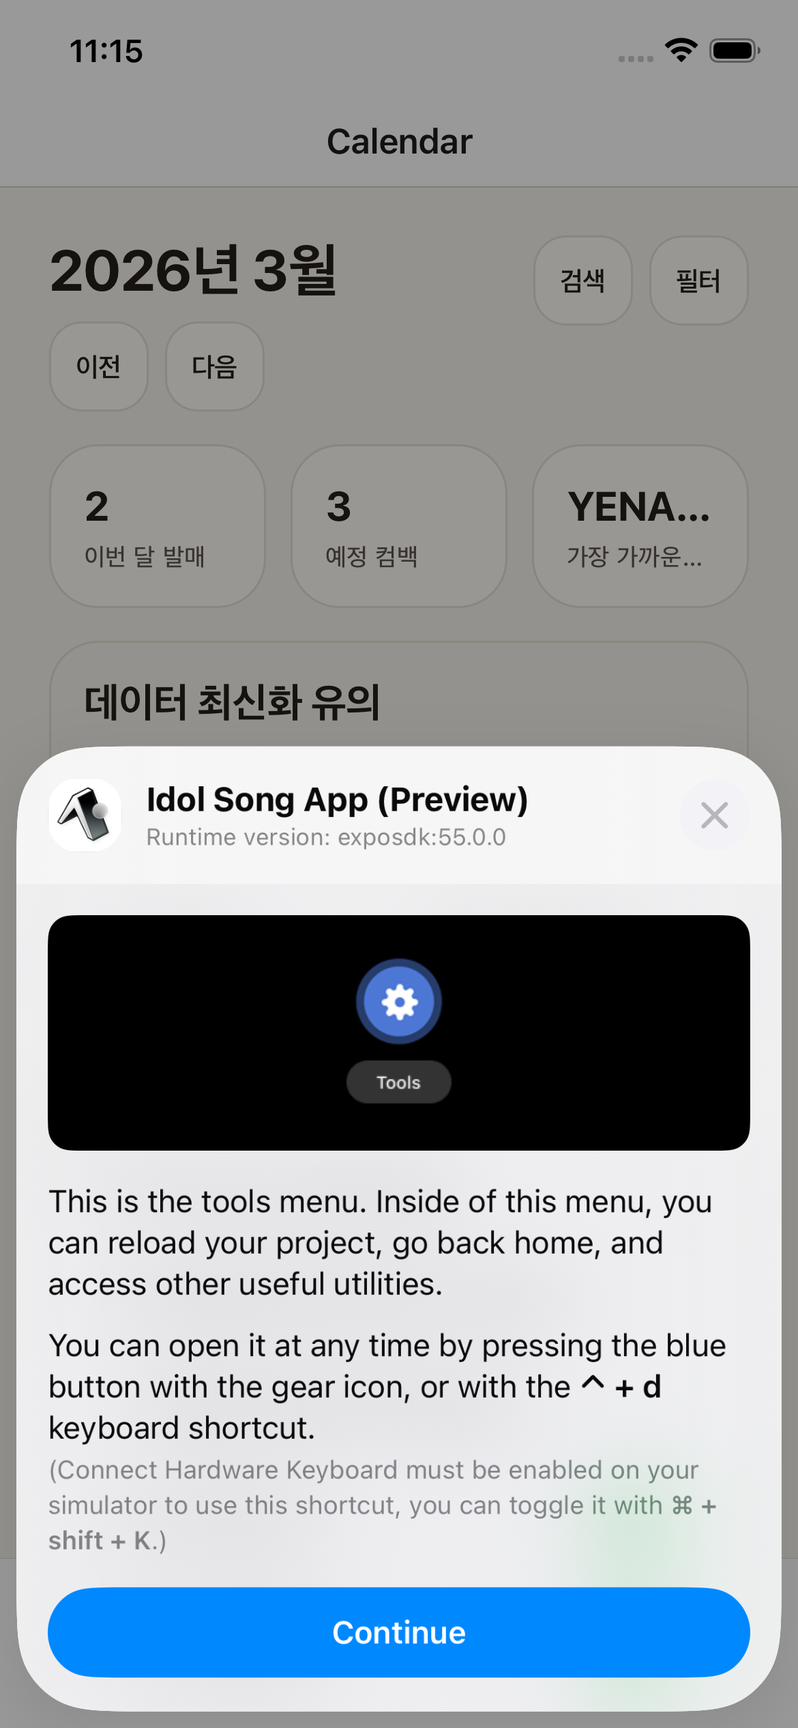
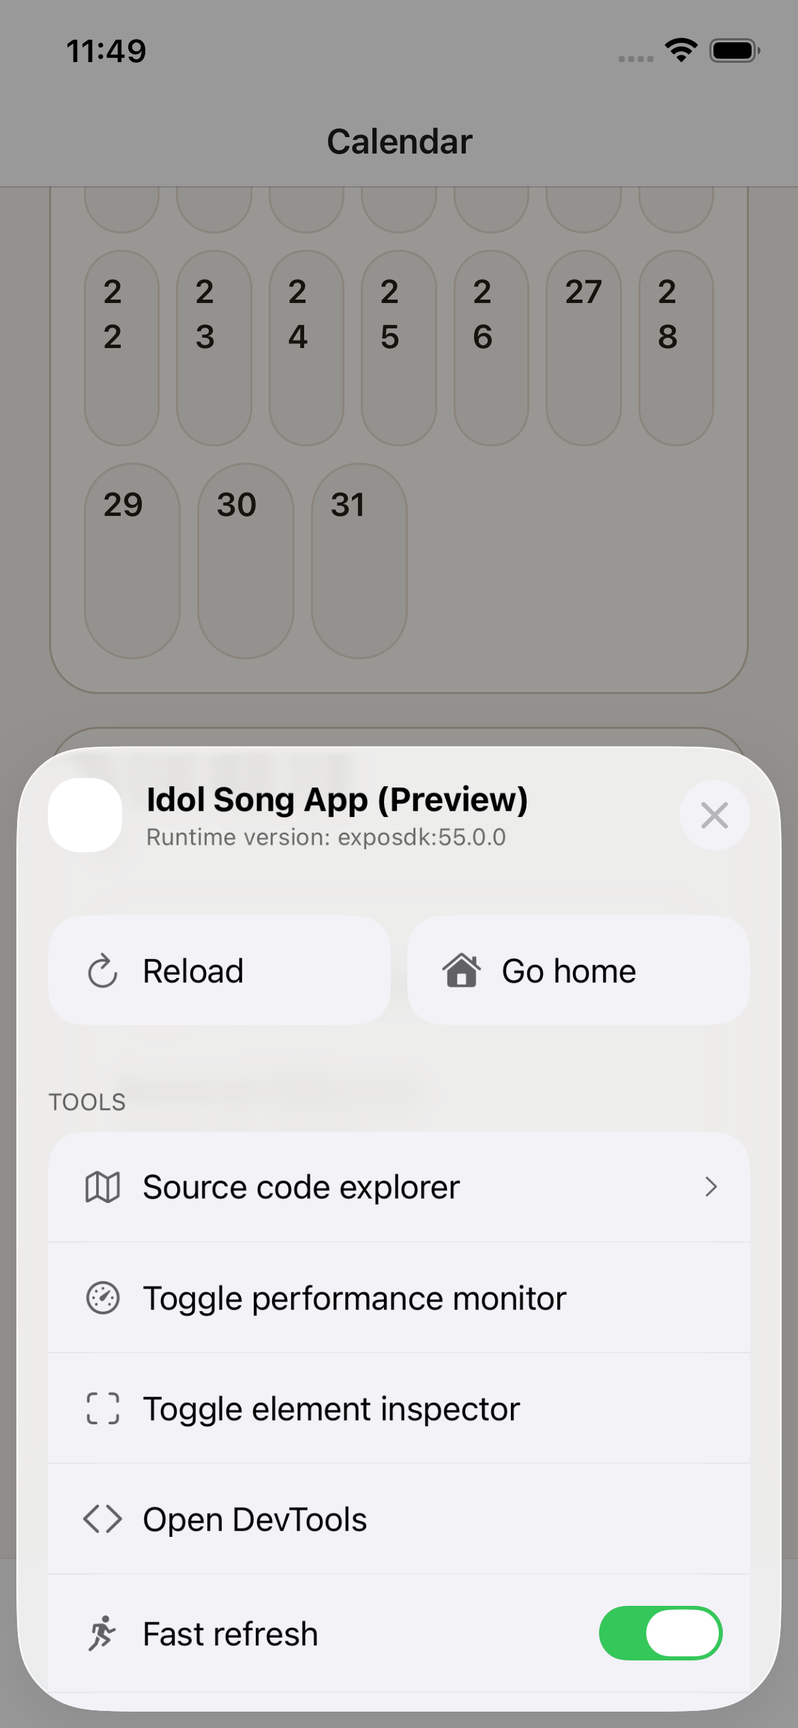
Add RN preview runtime stabilization evidence (#492)

diff --git a/mobile/app.config.ts b/mobile/app.config.ts
@@ -8,6 +8,8 @@ type ProfileConfig = {
   name: string;
   slug: string;
   scheme: string;
+  iosBundleIdentifier: string;
+  androidPackage: string;
   dataSourceMode: DataSourceMode;
   loggingLevel: LoggingLevel;
   featureGates: {
@@ -52,6 +54,8 @@ const PROFILE_CONFIG: Record<MobileProfile, ProfileConfig> = {
     name: 'Idol Song App (Dev)',
     slug: 'idol-song-app-mobile-dev',
     scheme: 'idolsongapp-dev',
+    iosBundleIdentifier: 'com.anonymous.idolsongappmobile.dev',
+    androidPackage: 'com.anonymous.idolsongappmobile.dev',
     dataSourceMode: 'bundled-static',
     loggingLevel: 'verbose',
     featureGates: {
@@ -66,6 +70,8 @@ const PROFILE_CONFIG: Record<MobileProfile, ProfileConfig> = {
     name: 'Idol Song App (Preview)',
     slug: 'idol-song-app-mobile-preview',
     scheme: 'idolsongapp-preview',
+    iosBundleIdentifier: 'com.anonymous.idolsongappmobile.preview',
+    androidPackage: 'com.anonymous.idolsongappmobile.preview',
     dataSourceMode: 'backend-api',
     loggingLevel: 'debug',
     featureGates: {
@@ -80,6 +86,8 @@ const PROFILE_CONFIG: Record<MobileProfile, ProfileConfig> = {
     name: 'Idol Song App',
     slug: 'idol-song-app-mobile',
     scheme: 'idolsongapp',
+    iosBundleIdentifier: 'com.anonymous.idolsongappmobile',
+    androidPackage: 'com.anonymous.idolsongappmobile',
     dataSourceMode: 'backend-api',
     loggingLevel: 'error',
     featureGates: {
@@ -215,9 +223,11 @@ export default ({ config }: ConfigContext): ExpoConfig => {
     },
     ios: {
       supportsTablet: true,
+      bundleIdentifier: profileConfig.iosBundleIdentifier,
     },
     android: {
       predictiveBackGestureEnabled: false,
+      package: profileConfig.androidPackage,
     },
     web: {
       bundler: 'metro',

diff --git a/docs/specs/mobile/rn-runtime-device-qa-2026-03-10.md b/docs/specs/mobile/rn-runtime-device-qa-2026-03-10.md
@@ -1,43 +1,59 @@
 # RN Runtime Device QA 2026-03-10
 
 ## Scope
-- Issue: [#486](https://github.com/iAmSomething/idol-song-app/issues/486)
-- Goal: preview sign-off 직전 실제 runtime QA matrix와 accessibility/platform walkthrough 재실행
+- Issue: [#488](https://github.com/iAmSomething/idol-song-app/issues/488)
+- Goal: preview sign-off 직전 runtime target을 안정화하고 실제 runtime QA matrix와 accessibility/platform walkthrough를 다시 실행
 - Decision: `BLOCKED`
-- Next blocker follow-up: [#488](https://github.com/iAmSomething/idol-song-app/issues/488)
+- Next blocker follow-up: [#491](https://github.com/iAmSomething/idol-song-app/issues/491)
 
 ## Summary
-이번 패스에서는 iOS shipping-target simulator에서 preview runtime을 실제로 띄우는 데까지는 성공했다. 다만 Expo Go first-run tools modal이 앱 위를 덮고 있고, Expo Go 안에서는 앱 custom scheme deep-link도 등록되지 않아 search / team detail / release detail을 직접 열 수 없었다. Android는 emulator package, AVD, attached device가 모두 없어 runtime matrix를 시작할 수 없었다.
+이번 패스에서는 preview QA runtime 자체는 안정화됐다. iOS는 `expo-dev-client`가 포함된 standalone preview build로 `Calendar`, `Search`, `Radar`, `YENA team detail`, `LOVE CATCHER release detail`까지 실제로 열 수 있었고, Android는 command-line tools, emulator, AVD를 provision한 뒤 preview build를 emulator에 설치해 `Calendar -> YENA team detail -> hardware back` 흐름을 검증했다. 다만 sign-off는 여전히 `BLOCKED`다. iOS largest-text(`accessibility-extra-extra-extra-large`)에서 Search 화면 레이아웃이 심하게 무너졌고, Android 외부 handoff return은 마지막 상세 컨텍스트가 아니라 `Calendar` 루트로 복귀했다. VoiceOver / TalkBack 수동 walkthrough도 아직 clean pass로 남기지 못했다.
 
 ## Runtime Matrix
 | Target | Result | Evidence | Notes |
 | --- | --- | --- | --- |
-| iOS simulator launch | PASS | `docs/assets/distribution/rn_ios_preview_runtime_calendar_2026-03-10.png` | `Calendar` surface가 실제 simulator에 로드됨 |
-| iOS in-app flow walkthrough | BLOCKED | `docs/assets/distribution/rn_ios_preview_runtime_blocker_2026-03-10.png` | Expo Go tools modal이 first-run 상태로 남아 manual taps를 가로막음 |
-| iOS deep-link jump | BLOCKED | `xcrun simctl openurl booted 'idolsongapp-preview://...'` | Expo Go runtime에서는 app custom scheme가 직접 등록되지 않아 `OSStatus -10814` |
-| Android emulator runtime | BLOCKED | `find ~/Library/Android/sdk -type f -name emulator` | emulator binary 없음 |
-| Android physical runtime | BLOCKED | `adb devices -l` | attached device 없음 |
-| VoiceOver / TalkBack walkthrough | BLOCKED | no runnable end-to-end runtime target | screen-reader walkthrough 미실행 |
-| Dynamic Type largest-text walkthrough | BLOCKED | no runnable end-to-end runtime target | largest-text runtime walkthrough 미실행 |
+| iOS simulator launch | PASS | `docs/assets/distribution/rn_ios_preview_runtime_calendar_no_menu_2026-03-10.png` | standalone preview dev client에서 `Calendar` surface 로드 확인 |
+| iOS in-app flow walkthrough | PASS | `docs/assets/distribution/rn_ios_preview_runtime_search_warm_2026-03-10.png`, `docs/assets/distribution/rn_ios_preview_runtime_radar_2026-03-10.png` | `Search`, `Radar` warm route 진입 확인 |
+| iOS deep-link jump | PASS | `docs/assets/distribution/rn_ios_preview_runtime_artist_yena_2026-03-10.png`, `docs/assets/distribution/rn_ios_preview_runtime_release_yena_2026-03-10.png` | `artists/yena`, `releases/yena--love-catcher--2026-03-11--album` warm deep link 성공 |
+| Android emulator runtime | PASS | `docs/assets/distribution/rn_android_preview_runtime_calendar_no_menu_2026-03-10.png` | preview build install, dev client load, `Calendar` surface 확인 |
+| Android hardware back | PASS | `docs/assets/distribution/rn_android_preview_runtime_after_back_2026-03-10.png` | `YENA` team detail에서 hardware back 후 `Calendar` 복귀 확인 |
+| Android external handoff return / state restore | BLOCKED | `docs/assets/distribution/rn_android_preview_runtime_handoff_return_2026-03-10.png` | 브라우저 handoff 후 앱을 다시 foreground로 올리면 마지막 detail context가 아니라 `Calendar` 루트로 돌아옴 |
+| VoiceOver / TalkBack walkthrough | BLOCKED | runnable runtime target exists, but screen-reader pass not recorded | 실제 수동 스크린리더 walkthrough 미완료 |
+| Dynamic Type / font scale walkthrough | BLOCKED | `docs/assets/distribution/rn_ios_preview_runtime_search_largest_text_2026-03-10.png`, `docs/assets/distribution/rn_android_preview_runtime_largest_text_2026-03-10.png` | iOS largest-text는 blocking overflow 발생, Android font scale은 snapshot만 확보 |
 
 ## Executed Checks
-1. `CI=1 EXPO_PUBLIC_API_BASE_URL=https://api.idol-song-app.example.com APP_ENV=preview npx expo start --host lan --ios`
-2. `lsof -i tcp:8081 -n -P`
-3. `xcrun simctl io booted screenshot ...`
-4. `xcrun simctl openurl booted 'idolsongapp-preview://search?...'`
-5. `xcrun simctl openurl booted 'idolsongapp-preview://artists/yena'`
-6. `xcrun simctl openurl booted 'idolsongapp-preview://releases/yena--love-catcher--2026-03-11--album'`
-7. `find ~/Library/Android/sdk -type f -name emulator`
-8. `ls -la ~/.android/avd`
-9. `adb devices -l`
+1. `cd mobile && npx expo install expo-dev-client`
+2. `cd mobile && EXPO_PUBLIC_API_BASE_URL=https://api.idol-song-app.example.com npm run qa:preview:ios:prebuild`
+3. `cd mobile && EXPO_PUBLIC_API_BASE_URL=https://api.idol-song-app.example.com npm run qa:preview:ios:sim`
+4. `xcrun simctl openurl booted 'idolsongapp-preview://artists/yena'`
+5. `xcrun simctl openurl booted 'idolsongapp-preview://releases/yena--love-catcher--2026-03-11--album'`
+6. `xcrun simctl openurl booted 'idolsongapp-preview://search?q=최예나'`
+7. `xcrun simctl openurl booted 'idolsongapp-preview://radar'`
+8. `xcrun simctl ui booted content_size accessibility-extra-extra-extra-large`
+9. `brew install --cask android-commandlinetools`
+10. `yes | "$HOME/Library/Android/sdk/cmdline-tools/latest/bin/sdkmanager" --sdk_root="$HOME/Library/Android/sdk" "emulator" "platforms;android-35" "system-images;android-35;google_apis;arm64-v8a"`
+11. `"$HOME/Library/Android/sdk/cmdline-tools/latest/bin/avdmanager" create avd --force --name idol-song-app-preview-api35 --package "system-images;android-35;google_apis;arm64-v8a" --tag google_apis --abi arm64-v8a --device pixel_8`
+12. `"$HOME/Library/Android/sdk/emulator/emulator" -list-avds`
+13. `"$HOME/Library/Android/sdk/emulator/emulator" -avd idol-song-app-preview-api35 -netdelay none -netspeed full -no-snapshot-save -no-boot-anim -no-audio`
+14. `cd mobile && EXPO_PUBLIC_API_BASE_URL=https://api.idol-song-app.example.com npm run qa:preview:android:prebuild`
+15. `cd mobile && EXPO_PUBLIC_API_BASE_URL=https://api.idol-song-app.example.com npm run qa:preview:android:emu`
+16. `adb shell input tap ...`
+17. `adb shell input keyevent 4`
+18. `adb shell am start -W -a android.intent.action.VIEW -d 'https://example.com'`
+19. `adb shell am start -W -n com.anonymous.idolsongappmobile.preview/.MainActivity`
+20. `adb shell settings put system font_scale 1.3`
+21. `adb exec-out screencap -p > ...`
 
 ## Findings
-1. iOS simulator 기준으로 preview runtime은 실제 앱 화면까지 올라온다. 이건 `#454` 시점의 “simulator boot only”보다 한 단계 진전이다.
-2. Expo Go first-run tools modal 때문에 QA-UC-01 ~ QA-UC-05를 앱 안에서 연속 수행할 수 없었다.
-3. Expo Go runtime에서는 앱 custom scheme deep-link를 직접 열 수 없어 route-level 우회 진입도 막혔다.
-4. Android는 QA를 시작할 수 있는 runtime target 자체가 없다.
+1. `expo-dev-client`와 native identifier를 넣은 뒤에는 iOS preview runtime이 Expo Go blocker 없이 실제 app shell까지 올라온다.
+2. iOS에서는 warm deep link로 `Search`, `Radar`, `Team Detail`, `Release Detail`을 모두 직접 열 수 있었다.
+3. Android는 emulator package, AVD, attached device 부재 상태에서 벗어나 실제 preview build install/open까지 성공했다.
+4. Android hardware back은 정상이다.
+5. 남은 blocker는 runtime availability가 아니라 accessibility/state behavior다.
+6. iOS largest-text에서 Search 화면 텍스트가 심하게 겹치고 잘려서 sign-off를 막는다.
+7. Android external handoff return은 마지막 screen context를 보존하지 못하고 `Calendar` 루트로 돌아간다.
 
 ## Decision
-- `#486`의 목적이었던 runtime matrix 실행 시도와 blocker 분류는 완료했다.
+- `#488`의 목적이었던 preview runtime 안정화와 rerun은 완료했다.
 - preview sign-off는 여전히 `NO-GO`다.
-- 다음 액션은 [#488](https://github.com/iAmSomething/idol-song-app/issues/488)에서 runtime QA 환경 자체를 안정화한 뒤 남은 matrix를 다시 도는 것이다.
+- 다음 액션은 [#491](https://github.com/iAmSomething/idol-song-app/issues/491)에서 accessibility/state restore blocker를 해결한 뒤 sign-off를 다시 판정하는 것이다.

diff --git a/docs/specs/mobile/rn-release-readiness-gate-2026-03-10.md b/docs/specs/mobile/rn-release-readiness-gate-2026-03-10.md
@@ -4,11 +4,11 @@
 - Preview sign-off: `BLOCKED`
 - Decision date: `2026-03-10`
 - Runtime QA artifact: `rn-runtime-device-qa-2026-03-10.md`
-- Blocking follow-up: [#488](https://github.com/iAmSomething/idol-song-app/issues/488)
-- Local evidence: `docs/assets/distribution/rn_release_readiness_local_2026-03-10.md`
+- Blocking follow-up: [#491](https://github.com/iAmSomething/idol-song-app/issues/491)
+- Local evidence: `docs/assets/distribution/rn_preview_runtime_stabilization_local_2026-03-10.md`
 
 ## Summary
-자동 검증과 코드/문서 기반 구조 검증은 통과했다. 다만 preview sign-off 차단 조건인 실제 iOS/Android runtime QA matrix와 VoiceOver/TalkBack, largest text 재검증이 이 환경에서 완료되지 않았다. 따라서 이번 판정은 `GO`가 아니라 `BLOCKED`다.
+자동 검증과 코드/문서 기반 구조 검증은 통과했고, `#488`에서 iOS standalone dev client와 Android emulator 기반 preview runtime도 실제로 다시 세웠다. 그래서 이전처럼 “runtime target이 없다”는 상태는 더 이상 blocker가 아니다. 다만 rerun 결과 iOS largest-text overflow와 Android external handoff/state-restore reset이 새 blocker로 드러났고, VoiceOver / TalkBack manual pass도 아직 clean하게 남지 않았다. 따라서 이번 판정은 여전히 `GO`가 아니라 `BLOCKED`다.
 
 ## Gate Result
 | Gate | Result | Evidence | Notes |
@@ -16,9 +16,9 @@
 | Product | PASS | `rn-screen-structure-validation-2026-03-10.md`, `rn-journey-walkthrough-2026-03-10.md` | Calendar, Search, Radar, Team Detail, Release Detail 핵심 플로우 구조와 journey 검증 통과 |
 | Data | PASS | `npm test -- --runInBand`, `specParity.test.ts`, `searchTab.test.tsx` | alias search, release detail, month-only separation, backend/bundled fallback contract 자동 검증 통과 |
 | UX | PASS | `rn-screen-structure-validation-2026-03-10.md`, `qa-acceptance-spec.md` 기준 regression tests | action hierarchy, empty/error/partial state, sheet/list/grid 구조 유지 |
-| Accessibility | BLOCKED | `accessibility-audit-2026-03-09.md` | 코드 레벨 blocker는 해소됐지만 실제 iOS/Android VoiceOver/TalkBack, largest text walkthrough 미실행 |
-| Platform | BLOCKED | iOS simulator boot evidence, Android runtime availability check | iOS handoff/gesture, Android hardware back/handoff/state restore를 실제 runtime에서 재검증하지 못함 |
-| Test | BLOCKED | `lint`, `typecheck`, `test`, iOS/Android export PASS | 자동 검증은 통과했지만 QA-UC-01~05 manual checklist가 완료되지 않음 |
+| Accessibility | BLOCKED | `rn-runtime-device-qa-2026-03-10.md` | iOS largest-text overflow 발생, VoiceOver / TalkBack clean pass 미완료 |
+| Platform | BLOCKED | `rn-runtime-device-qa-2026-03-10.md` | Android external handoff return이 current detail context를 유지하지 못함 |
+| Test | PASS | `lint`, `typecheck`, `test`, iOS/Android export PASS, runtime rerun artifact | 자동 검증과 runtime rerun 자체는 완료 |
 | Ops | PASS | `config:preview`, export smoke, handoff/analytics guards existing tests | preview runtime config는 required env를 주면 정상 생성됨 |
 
 ## Automated Checks
@@ -34,31 +34,32 @@
 ## Device And Runtime Matrix
 | Runtime target | Result | Notes |
 | --- | --- | --- |
-| iOS Simulator `iPhone 16 Pro` / iOS `18.5` | PARTIAL | simulator boot completed with `xcrun simctl bootstatus`; app-level manual walkthrough는 이 환경에서 미실행 |
-| iOS physical device | BLOCKED | `xcrun xcdevice list` 기준 attached iPhone/iPad evidence 없음 |
-| Android emulator | BLOCKED | `emulator -list-avds` command unavailable |
+| iOS Simulator `iPhone 16e` / iOS `26.2` | PASS | standalone preview dev client에서 `Calendar`, `Search`, `Radar`, `Team Detail`, `Release Detail` rerun 완료 |
+| iOS physical device | PARTIAL | 필수 blocker는 아니지만 attached iPhone/iPad evidence는 여전히 없음 |
+| Android emulator | PASS | `idol-song-app-preview-api35` AVD provision + preview build install/open 완료 |
 | Android physical device | BLOCKED | `adb devices -l` returned no attached devices |
 
 ## Blockers
-1. `qa-acceptance-spec.md`의 QA-UC-01 ~ QA-UC-05 manual walkthrough 결과가 실제 iOS/Android runtime 기준으로 남아 있지 않다.
-2. `accessibility-platform-spec.md` 기준 VoiceOver / TalkBack / largest text 재검증 결과가 없다.
-3. Android runtime에서 hardware back, external handoff return, state restoration을 실제로 확인하지 못했다.
+1. iOS `accessibility-extra-extra-extra-large`에서 Search 화면이 sign-off 불가 수준으로 깨진다.
+2. Android external handoff return이 마지막 상세 컨텍스트를 유지하지 못하고 `Calendar` 루트로 되돌린다.
+3. VoiceOver / TalkBack manual walkthrough 결과가 아직 clean pass로 기록되지 않았다.
 
 ## Non-Blockers
 1. preview runtime config는 required env(`EXPO_PUBLIC_API_BASE_URL`)를 주면 정상 생성된다.
-2. 구조/여정/접근성 코드 레벨 audit에서 현재 구현 blocker는 없다.
-3. JS bundle export는 iOS/Android 모두 성공했다.
-4. automated regression suite는 현재 기준 clean이다.
+2. iOS standalone dev client와 Android emulator target은 둘 다 실제로 provision 가능하다.
+3. 구조/여정/접근성 코드 레벨 audit에서 현재 구현 blocker는 없다.
+4. JS bundle export는 iOS/Android 모두 성공했다.
+5. automated regression suite는 현재 기준 clean이다.
 
 ## Sign-off Rule
 - 아래 세 항목이 모두 채워지기 전까지 preview sign-off는 `NO-GO`다.
-  1. iOS runtime manual matrix 결과
-  2. Android runtime manual matrix 결과
-  3. VoiceOver / TalkBack / largest text walkthrough 결과
+  1. largest-text overflow fix 확인
+  2. Android handoff/state-restore fix 확인
+  3. VoiceOver / TalkBack walkthrough 결과
 
 ## Runtime QA Update
-- [#486](https://github.com/iAmSomething/idol-song-app/issues/486)에서 runtime QA 실행을 시도했고, iOS shipping-target simulator launch 자체는 확인했다.
+- [#488](https://github.com/iAmSomething/idol-song-app/issues/488)에서 runtime QA 환경을 안정화했고, iOS standalone dev client와 Android emulator rerun을 완료했다.
 - 세부 결과와 증적은 `rn-runtime-device-qa-2026-03-10.md`에 기록했다.
 
 ## Next Step
-- [#488](https://github.com/iAmSomething/idol-song-app/issues/488)에서 runtime QA 환경 blocker를 해소한 뒤, 이 문서의 blocker를 `pass` 또는 `non-blocking residual risk`로 갱신한다.
+- [#491](https://github.com/iAmSomething/idol-song-app/issues/491)에서 accessibility/state-restore blocker를 해소한 뒤, 이 문서의 blocker를 `pass` 또는 `non-blocking residual risk`로 갱신한다.

diff --git a/docs/assets/distribution/rn_preview_runtime_stabilization_local_2026-03-10.md b/docs/assets/distribution/rn_preview_runtime_stabilization_local_2026-03-10.md
@@ -1,0 +1,124 @@
+# RN Preview Runtime Stabilization Local Evidence 2026-03-10
+
+## Scope
+- Issue: [#488](https://github.com/iAmSomething/idol-song-app/issues/488)
+- Branch: `codex/488-stable-preview-qa-runtime`
+- Outcome: preview QA runtime stabilized on iOS standalone dev client and Android emulator, release sign-off still `BLOCKED`
+- Remaining blocker: [#491](https://github.com/iAmSomething/idol-song-app/issues/491)
+
+## iOS Preview Runtime
+
+### Provisioning
+```bash
+cd /Users/gimtaehun/Desktop/idol-song-app/mobile
+npx expo install expo-dev-client
+EXPO_PUBLIC_API_BASE_URL=https://api.idol-song-app.example.com npm run qa:preview:ios:prebuild
+EXPO_PUBLIC_API_BASE_URL=https://api.idol-song-app.example.com npm run qa:preview:ios:sim
+```
+
+Observed result:
+- preview build installed on `iPhone 16e`
+- Expo dev client opened `exp+idol-song-app-mobile-preview://expo-development-client/?url=http%3A%2F%2F192.168.55.173%3A8082`
+- Metro bundled `node_modules/expo-router/entry.js`
+
+### Runtime evidence
+- `docs/assets/distribution/rn_ios_preview_runtime_loaded_2026-03-10.png`
+- `docs/assets/distribution/rn_ios_preview_runtime_calendar_no_menu_2026-03-10.png`
+- `docs/assets/distribution/rn_ios_preview_runtime_search_warm_2026-03-10.png`
+- `docs/assets/distribution/rn_ios_preview_runtime_radar_2026-03-10.png`
+- `docs/assets/distribution/rn_ios_preview_runtime_artist_yena_2026-03-10.png`
+- `docs/assets/distribution/rn_ios_preview_runtime_release_yena_2026-03-10.png`
+
+Observed result:
+- `Calendar`, `Search`, `Radar`, `YENA team detail`, `LOVE CATCHER release detail` warm-route entry all succeeded
+- Expo Go blocker is no longer relevant for preview QA
+
+### Largest-text rerun
+```bash
+xcrun simctl ui booted content_size accessibility-extra-extra-extra-large
+xcrun simctl openurl booted 'idolsongapp-preview://search?q=%EC%B5%9C%EC%98%88%EB%82%98'
+```
+
+Evidence:
+- `docs/assets/distribution/rn_ios_preview_runtime_search_largest_text_2026-03-10.png`
+
+Result: `BLOCKED`
+
+Observed result:
+- Search surface text overlaps and truncates heavily
+- dynamic type is not sign-off ready
+
+## Android Preview Runtime
+
+### Provisioning
+```bash
+brew install --cask android-commandlinetools
+yes | "$HOME/Library/Android/sdk/cmdline-tools/latest/bin/sdkmanager" --sdk_root="$HOME/Library/Android/sdk" "emulator" "platforms;android-35" "system-images;android-35;google_apis;arm64-v8a"
+"$HOME/Library/Android/sdk/cmdline-tools/latest/bin/avdmanager" list avd
+"$HOME/Library/Android/sdk/emulator/emulator" -list-avds
+```
+
+Observed result:
+- AVD created: `idol-song-app-preview-api35`
+- emulator boot completed
+- `adb devices -l` showed `emulator-5554 device`
+
+### App install and launch
+```bash
+cd /Users/gimtaehun/Desktop/idol-song-app/mobile
+EXPO_PUBLIC_API_BASE_URL=https://api.idol-song-app.example.com npm run qa:preview:android:prebuild
+EXPO_PUBLIC_API_BASE_URL=https://api.idol-song-app.example.com npm run qa:preview:android:emu
+```
+
+Observed result:
+- preview build installed on `idol-song-app-preview-api35`
+- Expo dev client opened `exp+idol-song-app-mobile-preview://expo-development-client/?url=http%3A%2F%2F192.168.55.173%3A8083`
+- Metro bundled `node_modules/expo-router/entry.js`
+
+### Runtime evidence
+- `docs/assets/distribution/rn_android_preview_runtime_calendar_no_menu_2026-03-10.png`
+- `docs/assets/distribution/rn_android_preview_runtime_artist_yena_2026-03-10.png`
+- `docs/assets/distribution/rn_android_preview_runtime_after_back_2026-03-10.png`
+
+Observed result:
+- `Calendar` surface load succeeded
+- direct tap to `YENA` team detail succeeded
+- hardware back returned to `Calendar`
+
+### Handoff and state restore rerun
+```bash
+adb shell am start -W -a android.intent.action.VIEW -d 'https://example.com'
+adb shell am start -W -n com.anonymous.idolsongappmobile.preview/.MainActivity
+```
+
+Evidence:
+- `docs/assets/distribution/rn_android_preview_runtime_handoff_return_2026-03-10.png`
+
+Result: `BLOCKED`
+
+Observed result:
+- app task returned to foreground
+- current detail context was not preserved
+- foreground return landed on `Calendar`
+
+### Font scale rerun
+```bash
+adb shell settings put system font_scale 1.3
+adb shell am force-stop com.anonymous.idolsongappmobile.preview
+adb shell am start -W -a android.intent.action.VIEW -d 'exp+idol-song-app-mobile-preview://expo-development-client/?url=http%3A%2F%2F192.168.55.173%3A8083' com.anonymous.idolsongappmobile.preview
+```
+
+Evidence:
+- `docs/assets/distribution/rn_android_preview_runtime_largest_text_2026-03-10.png`
+
+Result: `PARTIAL`
+
+Observed result:
+- font scale snapshot captured on runnable emulator target
+- no immediate catastrophic overflow observed from this single sample
+- TalkBack/manual accessibility pass still not executed
+
+## Conclusion
+- Runtime availability blocker is resolved on both iOS and Android.
+- Current release blocker moved to actual behavior defects and incomplete accessibility sign-off.
+- Follow-up issue: [#491](https://github.com/iAmSomething/idol-song-app/issues/491)

diff --git a/mobile/README.md b/mobile/README.md
@@ -130,6 +130,26 @@ npm run config:preview
 npm run config:production
 ```
 
+preview QA runtime용 native prebuild / simulator 실행:
+
+```bash
+cd mobile
+EXPO_PUBLIC_API_BASE_URL=https://api.idol-song-app.example.com npm run qa:preview:ios:prebuild
+EXPO_PUBLIC_API_BASE_URL=https://api.idol-song-app.example.com npm run qa:preview:ios:sim
+```
+
+Android 쪽 native prebuild baseline:
+
+```bash
+cd mobile
+EXPO_PUBLIC_API_BASE_URL=https://api.idol-song-app.example.com npm run qa:preview:android:prebuild
+EXPO_PUBLIC_API_BASE_URL=https://api.idol-song-app.example.com npm run qa:preview:android:emu
+```
+
+참고:
+- preview QA runtime은 Expo Go가 아니라 `expo-dev-client`가 포함된 standalone development build 기준으로 검증한다.
+- Android는 `android-commandlinetools`, `emulator`, `system-images;android-35;google_apis;arm64-v8a`, AVD 1개가 준비되어 있어야 한다.
+
 env 예시는 아래 파일을 기준으로 잡는다.
 
 ```bash

diff --git a/docs/specs/mobile/configuration-environment-spec.md b/docs/specs/mobile/configuration-environment-spec.md
@@ -40,6 +40,14 @@
 - build version, dataset version, commit hash를 debug surface에서 확인할 수 있으면 좋다.
 - 일반 사용자 메인 화면에는 운영 지표를 노출하지 않는다.
 
+## 7.1 Native runtime identifiers
+- `development`, `preview`, `production`은 서로 다른 native identifier를 가진다.
+- 최소 분리 대상:
+  - iOS `bundleIdentifier`
+  - Android `package`
+- preview QA runtime은 Expo Go가 아니라 `expo-dev-client`가 포함된 standalone native simulator/device build로도 열 수 있어야 한다.
+- native identifier가 없어서 `expo prebuild` / `expo run:*`가 막히면 release-readiness blocker다.
+
 ## 8. Failure policy
 - remote dataset unavailable이면 last-known-good 또는 bundled dataset fallback이 필요하다.
 - env misconfiguration은 app crash보다 safe degraded mode로 처리해야 한다.
